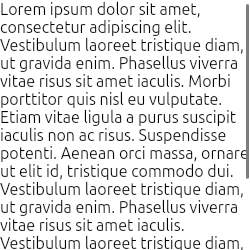
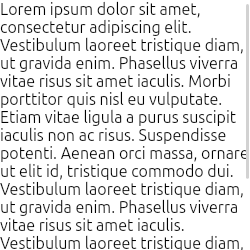
layout fixes

Changed region(s): [[0.98, 0.0, 1.0, 0.728]]

diff --git a/crates/torin/src/torin.rs b/crates/torin/src/torin.rs
@@ -4,6 +4,7 @@ use std::{
 };
 
 pub use euclid::Rect;
+use itertools::Itertools;
 use rustc_hash::FxHashMap;
 
 use crate::{
@@ -65,17 +66,18 @@ impl<Key: NodeKey> RootNodeCandidate<Key> {
                         let reason = dirty.get(&id);
                         match reason {
                             Some(DirtyReason::InnerLayout) => {
-                                // Replace the [DirtyReason::InnerLayout] with  [DirtyReason::None]
+                                // Replace [DirtyReason::InnerLayout] with [DirtyReason::None]
                                 // for all the nodes between the proposed candidate and the current candidate
-                                // that are ascendants of proposed_candidate
                                 dirty.insert(id, DirtyReason::None);
                             }
-                            None => {}
-                            Some(DirtyReason::None | DirtyReason::Reorder) => {
+                            Some(DirtyReason::None | DirtyReason::Reorder)
+                                if id != *proposed_candidate =>
+                            {
                                 // No need to continue checking if we encountered an ascendant
-                                // that is dirty but not with[DirtyReason::InnerLayout]
+                                // that is dirty but not with [DirtyReason::InnerLayout]
                                 continue_waking = false;
                             }
+                            _ => {}
                         }
                     },
                 );
@@ -269,7 +271,12 @@ impl<Key: NodeKey> Torin<Key> {
         if self.results.is_empty() {
             return;
         }
-        for (id, reason) in self.dirty.clone() {
+        for (id, reason) in self
+            .dirty
+            .clone()
+            .into_iter()
+            .sorted_by_key(|e| dom_adapter.height(&e.0))
+        {
             self.check_dirty_dependants(id, reason, dom_adapter, false);
         }
     }

diff --git a/crates/torin/src/dom_adapter.rs b/crates/torin/src/dom_adapter.rs
@@ -86,11 +86,12 @@ pub trait TreeAdapter<Key: NodeKey> {
         let (node_a, node_b) = match height_a.cmp(&height_b) {
             std::cmp::Ordering::Less => (
                 *node_a,
-                balance_heights(self, *node_b, *node_a, walker).unwrap_or(*node_b),
+                // Does not make sense to call the walker for when the node a is higher than the node b
+                balance_heights(self, *node_b, *node_a, None::<fn(_)>).unwrap_or(*node_b),
             ),
             std::cmp::Ordering::Equal => (*node_a, *node_b),
             std::cmp::Ordering::Greater => (
-                balance_heights(self, *node_a, *node_b, walker).unwrap_or(*node_a),
+                balance_heights(self, *node_a, *node_b, Some(walker)).unwrap_or(*node_a),
                 *node_b,
             ),
         };
@@ -129,18 +130,20 @@ fn balance_heights<Key: NodeKey>(
     dom_adapter: &(impl TreeAdapter<Key> + ?Sized),
     base: Key,
     target: Key,
-    mut walker: impl FnMut(Key),
+    mut walker: Option<impl FnMut(Key)>,
 ) -> Option<Key> {
     let target_height = dom_adapter.height(&target)?;
     let mut current = base;
     loop {
+        if let Some(walker) = &mut walker {
+            (walker)(current);
+        }
         if dom_adapter.height(&current)? == target_height {
             break;
         }
 
         let parent_current = dom_adapter.parent_of(&current);
         if let Some(parent_current) = parent_current {
-            walker(parent_current);
             current = parent_current;
         }
     }

diff --git a/crates/freya-core/src/tree.rs b/crates/freya-core/src/tree.rs
@@ -259,9 +259,12 @@ impl Tree {
                         parent.remove(from);
                         parent.insert(*to as usize, *node_id);
                     }
-
-                    // TODO: Mark dirty in layout?
                 }
+                let mut diff = DiffModifies::empty();
+                diff.insert(DiffModifies::REORDER_LAYOUT);
+                diff.insert(DiffModifies::ACCESSIBILITY);
+                diff.insert(DiffModifies::STYLE);
+                dirty.push((parent_node_id, diff));
             }
 
             for (node_id, element, flags) in mutations.modified {
@@ -303,6 +306,11 @@ impl Tree {
             for (node_id, flags) in dirty {
                 let element = self.elements.get(&node_id).unwrap();
                 let height_b = self.heights.get(&node_id).unwrap();
+
+                if flags.contains(DiffModifies::REORDER_LAYOUT) {
+                    self.layout
+                        .invalidate_with_reason(node_id, DirtyReason::Reorder);
+                }
 
                 if flags.contains(DiffModifies::INNER_LAYOUT) {
                     self.layout
@@ -637,6 +645,7 @@ bitflags! {
         const TEXT_STYLE = 6;
         const EFFECT = 7;
         const INNER_LAYOUT = 8;
+        const REORDER_LAYOUT = 9;
     }
 }
 
